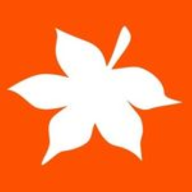
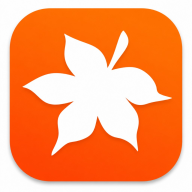
A folha laranja que você enviou é JPEG (mesmo com extensão .png). Isso pode fazer o badge falhar no servidor. O script foi ajustado para aceitar JPEG, PNG e WebP.

diff --git a/service-worker.js b/service-worker.js
@@ -1,4 +1,4 @@
-/* Tiaraju PWA Service Worker v20260520-3 */
+/* Tiaraju PWA Service Worker v20260520-5 */
 self.addEventListener('install', function (event) {
   self.skipWaiting();
 });
@@ -36,7 +36,7 @@ function fetchAssetBlob(url) {
   if (!url) {
     return Promise.resolve(null);
   }
-  return fetch(url, { mode: 'cors', credentials: 'omit', cache: 'reload' })
+  return fetch(url, { credentials: 'same-origin', cache: 'no-store' })
     .then(function (res) {
       if (!res.ok) {
         return null;
@@ -80,14 +80,13 @@ self.addEventListener('push', function (event) {
 
       if (blobs[0]) {
         options.icon = blobs[0];
-      } else {
+      } else if (iconUrl) {
         options.icon = iconUrl;
       }
 
+      // Badge inválido/ausente → Android mostra sino genérico. Só usar se carregou PNG monocromático.
       if (blobs[1]) {
         options.badge = blobs[1];
-      } else {
-        options.badge = badgeUrl;
       }
 
       return self.registration.showNotification(title, options);

diff --git a/public/adms/js/push-notifications.js b/public/adms/js/push-notifications.js
@@ -4,7 +4,7 @@
     var cfg = window.__PushNotificationsInit || {};
     var urlAdm = (cfg.urlAdm || '').replace(/\/$/, '');
     var csrfToken = cfg.csrfToken || '';
-    var swVersion = cfg.swVersion || '20260520-4';
+    var swVersion = cfg.swVersion || '20260520-5';
 
     var statusEl = document.getElementById('pushNotificationStatus');
     var btnEnable = document.getElementById('btnPushEnable');

diff --git a/public/adms/js/push-session-sync.js b/public/adms/js/push-session-sync.js
@@ -4,7 +4,7 @@
     var cfg = window.__PushSessionSyncInit || {};
     var urlAdm = (cfg.urlAdm || '').replace(/\/$/, '');
     var csrfToken = cfg.csrfToken || '';
-    var swVersion = cfg.swVersion || '20260520-4';
+    var swVersion = cfg.swVersion || '20260520-5';
     var userId = cfg.userId || 0;
 
     function getServiceWorkerUrl() {

diff --git a/scripts/generate_pwa_notification_assets.php b/scripts/generate_pwa_notification_assets.php
@@ -22,14 +22,48 @@ if (!extension_loaded('gd')) {
     exit(1);
 }
 
-$src = imagecreatefrompng($source);
+$src = loadSourceImage($source);
 if ($src === false) {
-    fwrite(STDERR, "Não foi possível ler PNG fonte.\n");
+    fwrite(STDERR, "Não foi possível ler imagem fonte (PNG/JPEG/WebP): {$source}\n");
     exit(1);
 }
 
 $srcW = imagesx($src);
 $srcH = imagesy($src);
+
+function loadSourceImage(string $path)
+{
+    if (!is_file($path)) {
+        return false;
+    }
+
+    $bytes = file_get_contents($path);
+    if ($bytes === false) {
+        return false;
+    }
+
+    $img = @imagecreatefromstring($bytes);
+    if ($img !== false) {
+        return $img;
+    }
+
+    $info = @getimagesize($path);
+    if ($info === false) {
+        return false;
+    }
+
+    return match ($info[2]) {
+        IMAGETYPE_PNG => imagecreatefrompng($path),
+        IMAGETYPE_JPEG => imagecreatefromjpeg($path),
+        IMAGETYPE_WEBP => function_exists('imagecreatefromwebp') ? imagecreatefromwebp($path) : false,
+        default => false,
+    };
+}
+
+function isOrangeBackground(int $r, int $g, int $b): bool
+{
+    return $r >= 150 && $g >= 70 && $g <= 210 && $b <= 120 && ($r - $g) >= 30;
+}
 
 function isLeafPixel(int $r, int $g, int $b, int $a): bool
 {
@@ -37,16 +71,18 @@ function isLeafPixel(int $r, int $g, int $b, int $a): bool
         return false;
     }
 
+    if (isOrangeBackground($r, $g, $b)) {
+        return false;
+    }
+
     $max = max($r, $g, $b);
     $min = min($r, $g, $b);
 
-    // Folha branca: canal alto e pouca saturação (não laranja).
-    if ($max >= 210 && ($max - $min) <= 45) {
+    if ($max >= 200 && ($max - $min) <= 55) {
         return true;
     }
 
-    // Bordas suavizadas entre branco e laranja.
-    if ($max >= 170 && ($max - $min) <= 90 && $r >= $g && $g >= $b) {
+    if ($max >= 160 && ($max - $min) <= 100 && $r >= $g && $g >= $b) {
         return true;
     }
 
@@ -113,21 +149,28 @@ function renderResized($src, int $srcW, int $srcH, int $size): GdImage
     return $dst;
 }
 
+$icon512Out = $root . '/public/adms/uploads/users/1/pwa-icon-512.png';
+
 @mkdir(dirname($badgeOut), 0775, true);
+@mkdir(dirname($icon512Out), 0775, true);
 
 $badge96 = renderBadge($src, $srcW, $srcH, 96);
 $badge72 = renderBadge($src, $srcW, $srcH, 72);
 $icon192 = renderResized($src, $srcW, $srcH, 192);
+$icon512 = renderResized($src, $srcW, $srcH, 512);
 
 imagepng($badge96, $badgeOut, 9);
 imagepng($badge72, $root . '/public/adms/image/pwa-badge-72.png', 9);
 imagepng($icon192, $icon192Out, 9);
+imagepng($icon512, $icon512Out, 9);
 
 imagedestroy($src);
 imagedestroy($badge96);
 imagedestroy($badge72);
 imagedestroy($icon192);
+imagedestroy($icon512);
 
 echo "Gerado: {$badgeOut}\n";
 echo "Gerado: {$root}/public/adms/image/pwa-badge-72.png\n";
 echo "Gerado: {$icon192Out}\n";
+echo "Gerado: {$icon512Out}\n";

diff --git a/app/adms/Views/layouts/main.php b/app/adms/Views/layouts/main.php
@@ -111,7 +111,7 @@ if (!headers_sent() && isset($_SESSION['user_id'])) {
     '</script>';
 }
 
-$pushSwVersion = '20260520-4';
+$pushSwVersion = '20260520-5';
 $pushSessionSyncInit = null;
 if (!empty($_SESSION['user_id'])) {
     $pushSessionSyncInit = [
@@ -532,7 +532,7 @@ if (isset($_SESSION['user_id'], $_SESSION['session_id'])) {
     (function() {
         if ('serviceWorker' in navigator) {
             window.addEventListener('load', function() {
-                const swUrl = '<?php echo rtrim($_ENV['URL_ADM'], '/'); ?>/service-worker.js?v=<?php echo $pushSwVersion ?? '20260520-4'; ?>';
+                const swUrl = '<?php echo rtrim($_ENV['URL_ADM'], '/'); ?>/service-worker.js?v=20260520-5';
                 fetch(swUrl, { method: 'GET', credentials: 'same-origin' })
                     .then(function (res) {
                         const ct = (res.headers.get('content-type') || '').toLowerCase();

diff --git a/app/adms/Views/layouts/login.php b/app/adms/Views/layouts/login.php
@@ -68,7 +68,7 @@ if (!isset($_ENV['DB_HOST'])) {
     (function() {
         if ('serviceWorker' in navigator) {
             window.addEventListener('load', function() {
-                const swUrl = '<?php echo rtrim($_ENV['URL_ADM'], '/'); ?>/service-worker.js?v=20260520-4';
+                const swUrl = '<?php echo rtrim($_ENV['URL_ADM'], '/'); ?>/service-worker.js?v=20260520-5';
                 navigator.serviceWorker.register(swUrl).catch(function(error) {
                     console.warn('Falha ao registrar Service Worker (login):', error);
                 });

diff --git a/app/adms/Views/profile/index.php b/app/adms/Views/profile/index.php
@@ -325,7 +325,7 @@ document.addEventListener('DOMContentLoaded', function () {
 window.__PushNotificationsInit = {
     urlAdm: <?php echo json_encode(rtrim((string) ($_ENV['URL_ADM'] ?? ''), '/'), JSON_UNESCAPED_SLASHES); ?>,
     csrfToken: <?php echo json_encode(CSRFHelper::generateCSRFToken('form_push_subscribe'), JSON_UNESCAPED_UNICODE); ?>,
-    swVersion: '20260520-4'
+    swVersion: '20260520-5'
 };
 
 function openProfilePhotoModal() {
